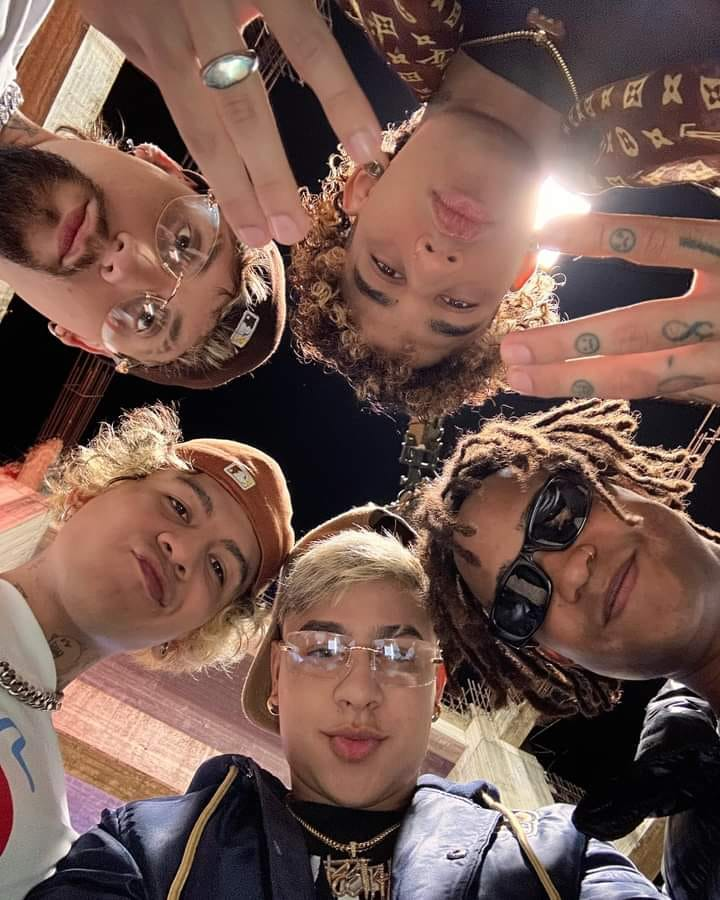
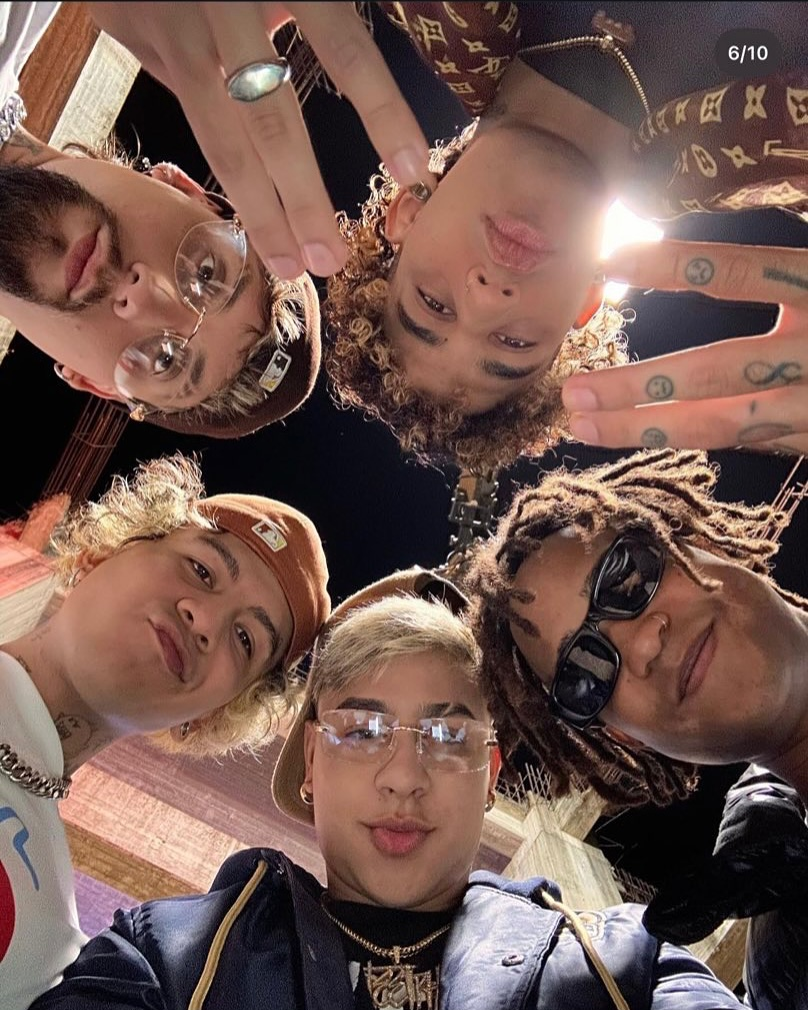
section About  ready

diff --git a/app/about/page.tsx b/app/about/page.tsx
@@ -51,18 +51,20 @@ export default function AboutPage() {
 
       {/* Galería de fotos */}
       <section className="grid grid-cols-1 sm:grid-cols-2 md:grid-cols-3 gap-6">
-        <img src="/lcl/group1.jpg" alt="Los Chamitos Locos" className="rounded-lg shadow-lg" />
-        <img src="/lcl/group2.jpg" alt="Los Chamitos Locos" className="rounded-lg shadow-lg" />
+        <img src="/lcl/group4.jpg" alt="Los Chamitos Locos" className="rounded-lg shadow-lg" />
+        <img src="/lcl/group5.jpg" alt="Los Chamitos Locos" className="rounded-lg shadow-lg" />
         <img src="/lcl/group3.jpg" alt="Los Chamitos Locos" className="rounded-lg shadow-lg" />
       </section>
 
       {/* Enlaces globales */}
       <section className="flex justify-center gap-6">
-        <Link href="https://open.spotify.com" target="_blank" className="btn-secondary">
-          Spotify
+        <Link href="https://open.spotify.com/intl-es/track/6FH5L2afYhFk7wduzDPGXn" target="_blank" className="btn-secondary inline-flex items-center justify-center rounded-md p-1.5
+                 ring-1 ring-white/10 hover:ring-white/30 transition text-green-500">
+          <SpotifyIcon width={40} height={40} />
         </Link>
-        <Link href="https://youtube.com" target="_blank" className="btn-secondary">
-          YouTube
+        <Link href="https://www.youtube.com/watch?v=UvouMwUcm6E" target="_blank" className="btn-secondary inline-flex items-center justify-center rounded-md p-1.5
+                 ring-1 ring-white/10 hover:ring-white/30 transition text-red-500">
+          <YouTubeIcon width={40} height={40} />
         </Link>
       </section>
 
